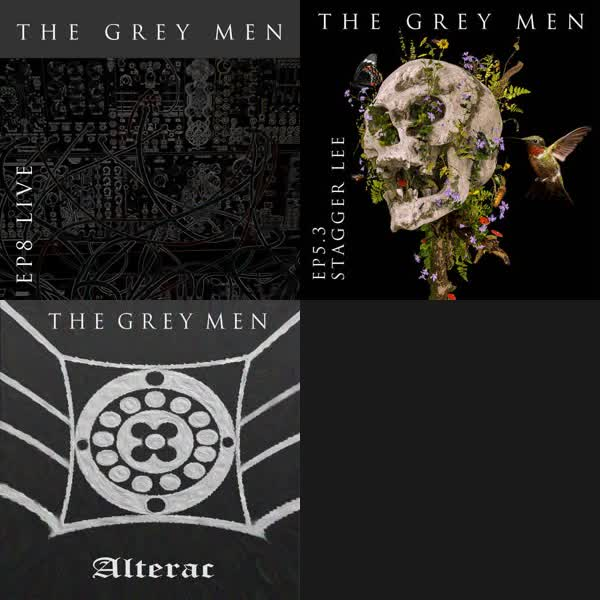
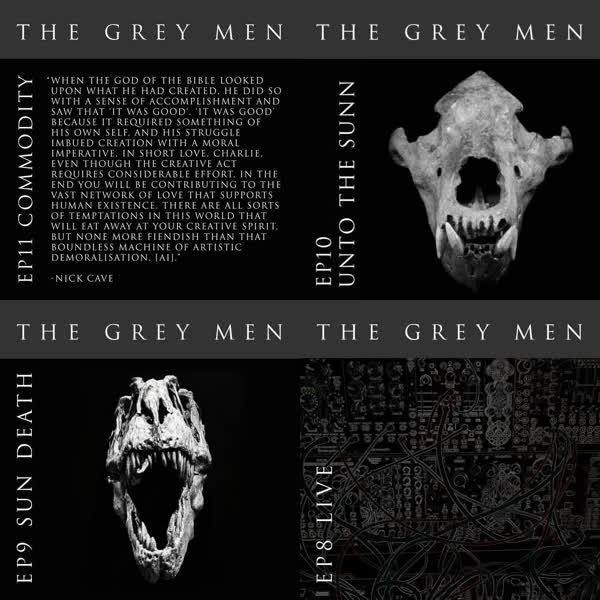
Update Grey Men EPs grid with latest releases (Commodity, Unto the Sunn, Sun Death, EP8LIVE)

diff --git a/src/content/projects/grey-men-eps.md b/src/content/projects/grey-men-eps.md
@@ -5,6 +5,9 @@ order: 4
 year: "2021–2023"
 thumbnail: "/images/grey-men-eps-grid.jpg"
 images:
+  - "/images/grey-men-ep11-commodity.jpg"
+  - "/images/grey-men-ep10-unto-the-sunn.jpg"
+  - "/images/grey-men-ep9-sun-death.jpg"
   - "/images/grey-men-eps.jpg"
   - "/images/grey-men-ep5-stagger-lee.jpg"
   - "/images/grey-men-alterac.jpg"
